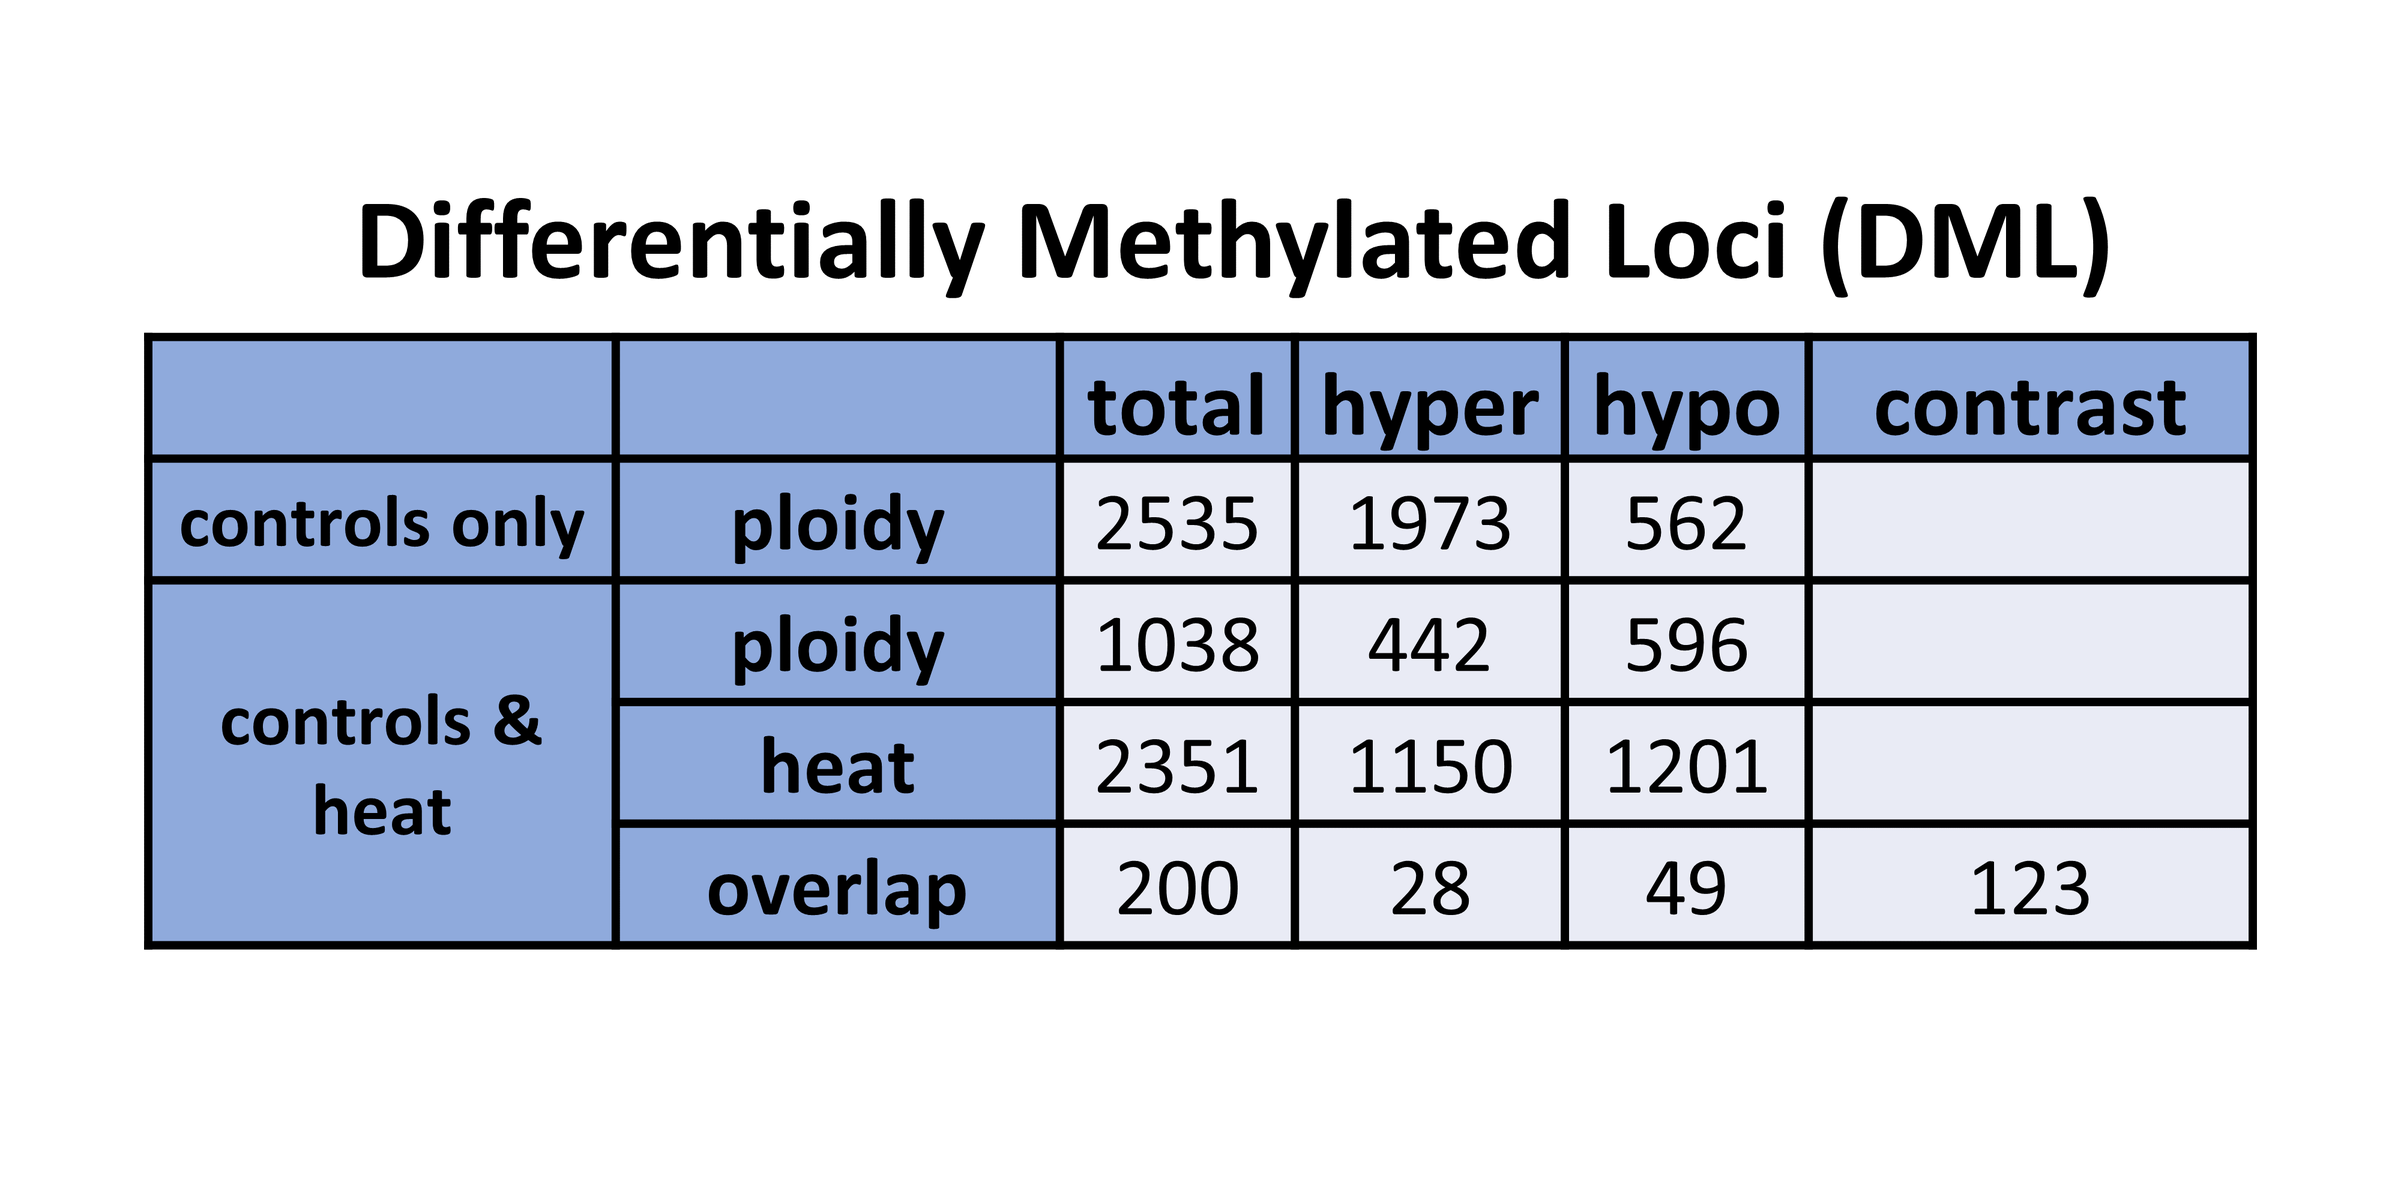
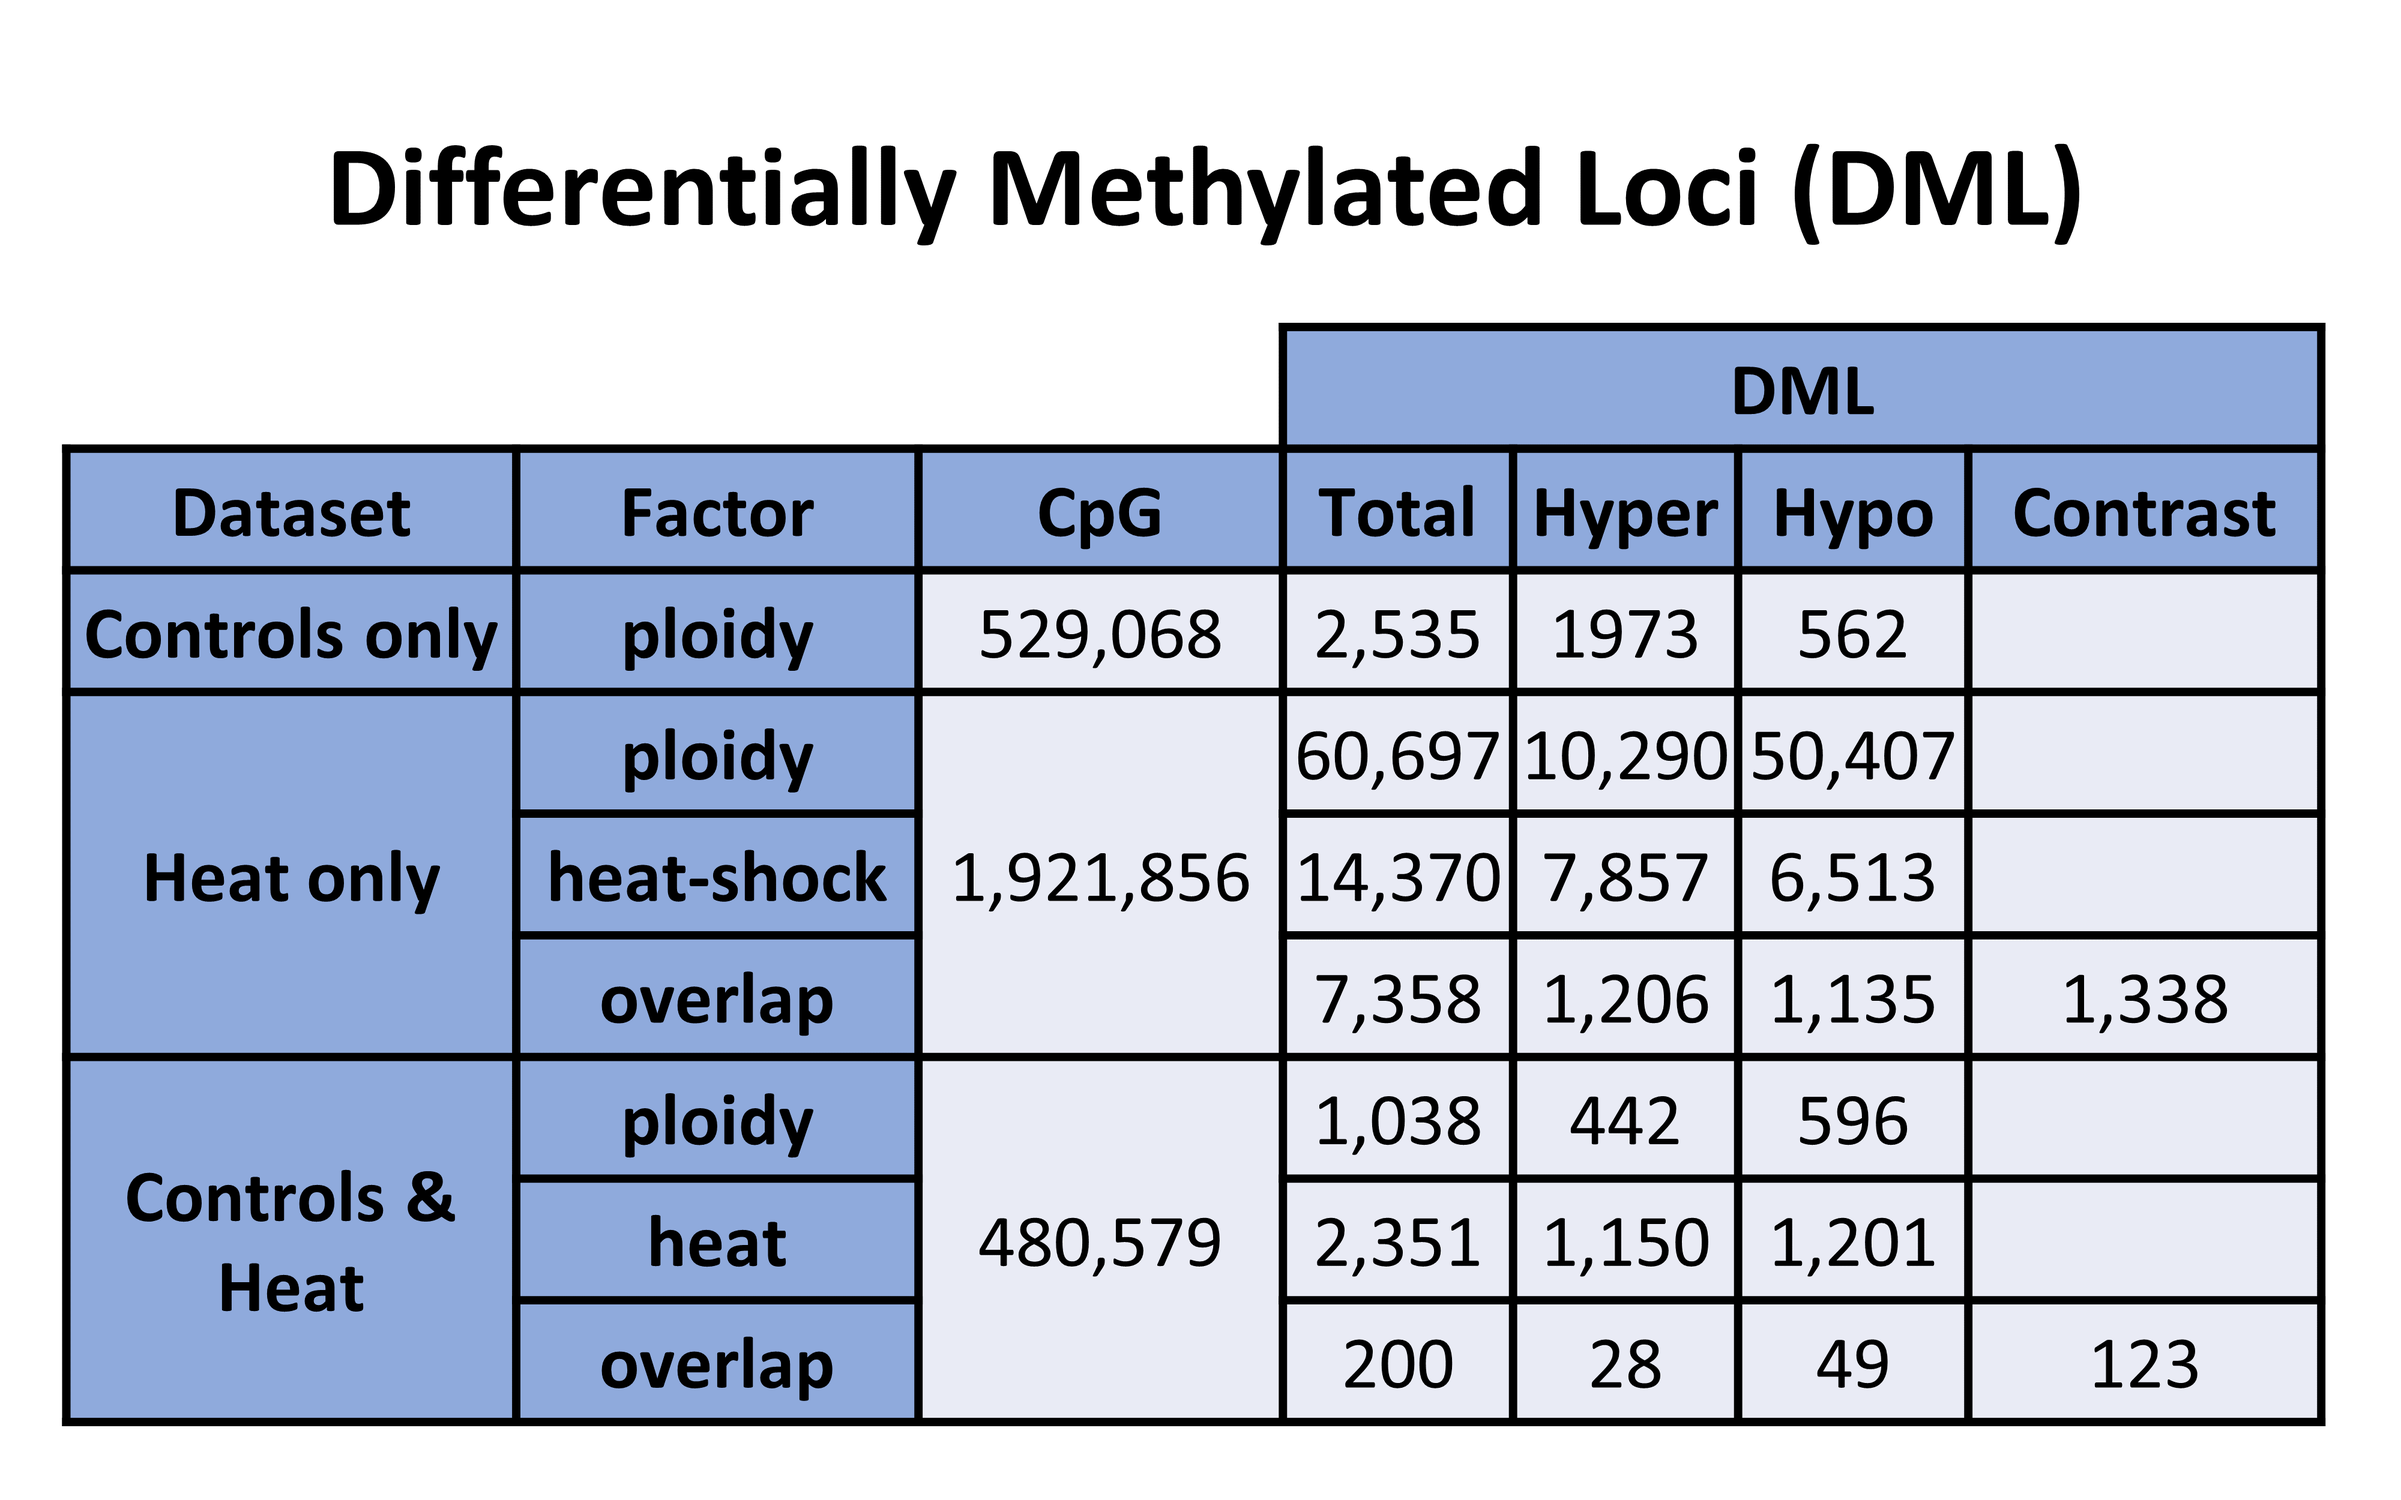
updated table 1

diff --git a/_posts/2021-10-01-gigas-WGBS-ploidy-desiccation-analysis-Part-4.md b/_posts/2021-10-01-gigas-WGBS-ploidy-desiccation-analysis-Part-4.md
@@ -36,6 +36,10 @@ Ploidy - All 529,068 CpGs
 Ploidy - 2,535 DML only
 ![](/post_images/100421/2021-10-04-DML-Only-Yaamini-PCA.png)
 
+Next, lets analyze just Ronit's data. He has 5 diploid and 5 triploids that are both heated. Using a 10x coverage, 1,921,856 CpGs were identified. Looking at the impact of ploidy, the following differentially methylated loci were generated:
+
+DMLs = 60,697 identified, 10,290 Hyper, 50,407 hypo
+
 Next, lets analyze Yaamini's samples along with Ronit's data. Methylkit limits the comparison to CpGs that are present in both datasets, so adding them together will theoretically trim from both. Coverage files (.cov) from Bismark were processed using methRead. With both datasets together we have 22 samples (11 diploid and triploids), 10 Heated and 12 controls. Ploidy information was included in the treatment parameter using 0 = diploid, 1 = triploid.
 
 ```

diff --git a/_posts/2021-04-02-gigas-WGBS-ploidy-desiccation-analysis-Part-3.md b/_posts/2021-04-02-gigas-WGBS-ploidy-desiccation-analysis-Part-3.md
@@ -82,5 +82,3 @@ processedFilesCov1 <- processBismarkAln(location = analysisFiles, sample.id = sa
 This chunk was run with mincov = 1, 3, or 5. This step took a long time! On my desktop machine (Intel(R) Core(TM) i7-8700K CPU @ 3.70GHz), it averaged 1 sample every 30 mins.
 
 I know that Yaamini is working on a mox script for this step. I'll link it [here]() when/if she finishes it.
-
-### Step 4: Obtain methylation and coverage plots
